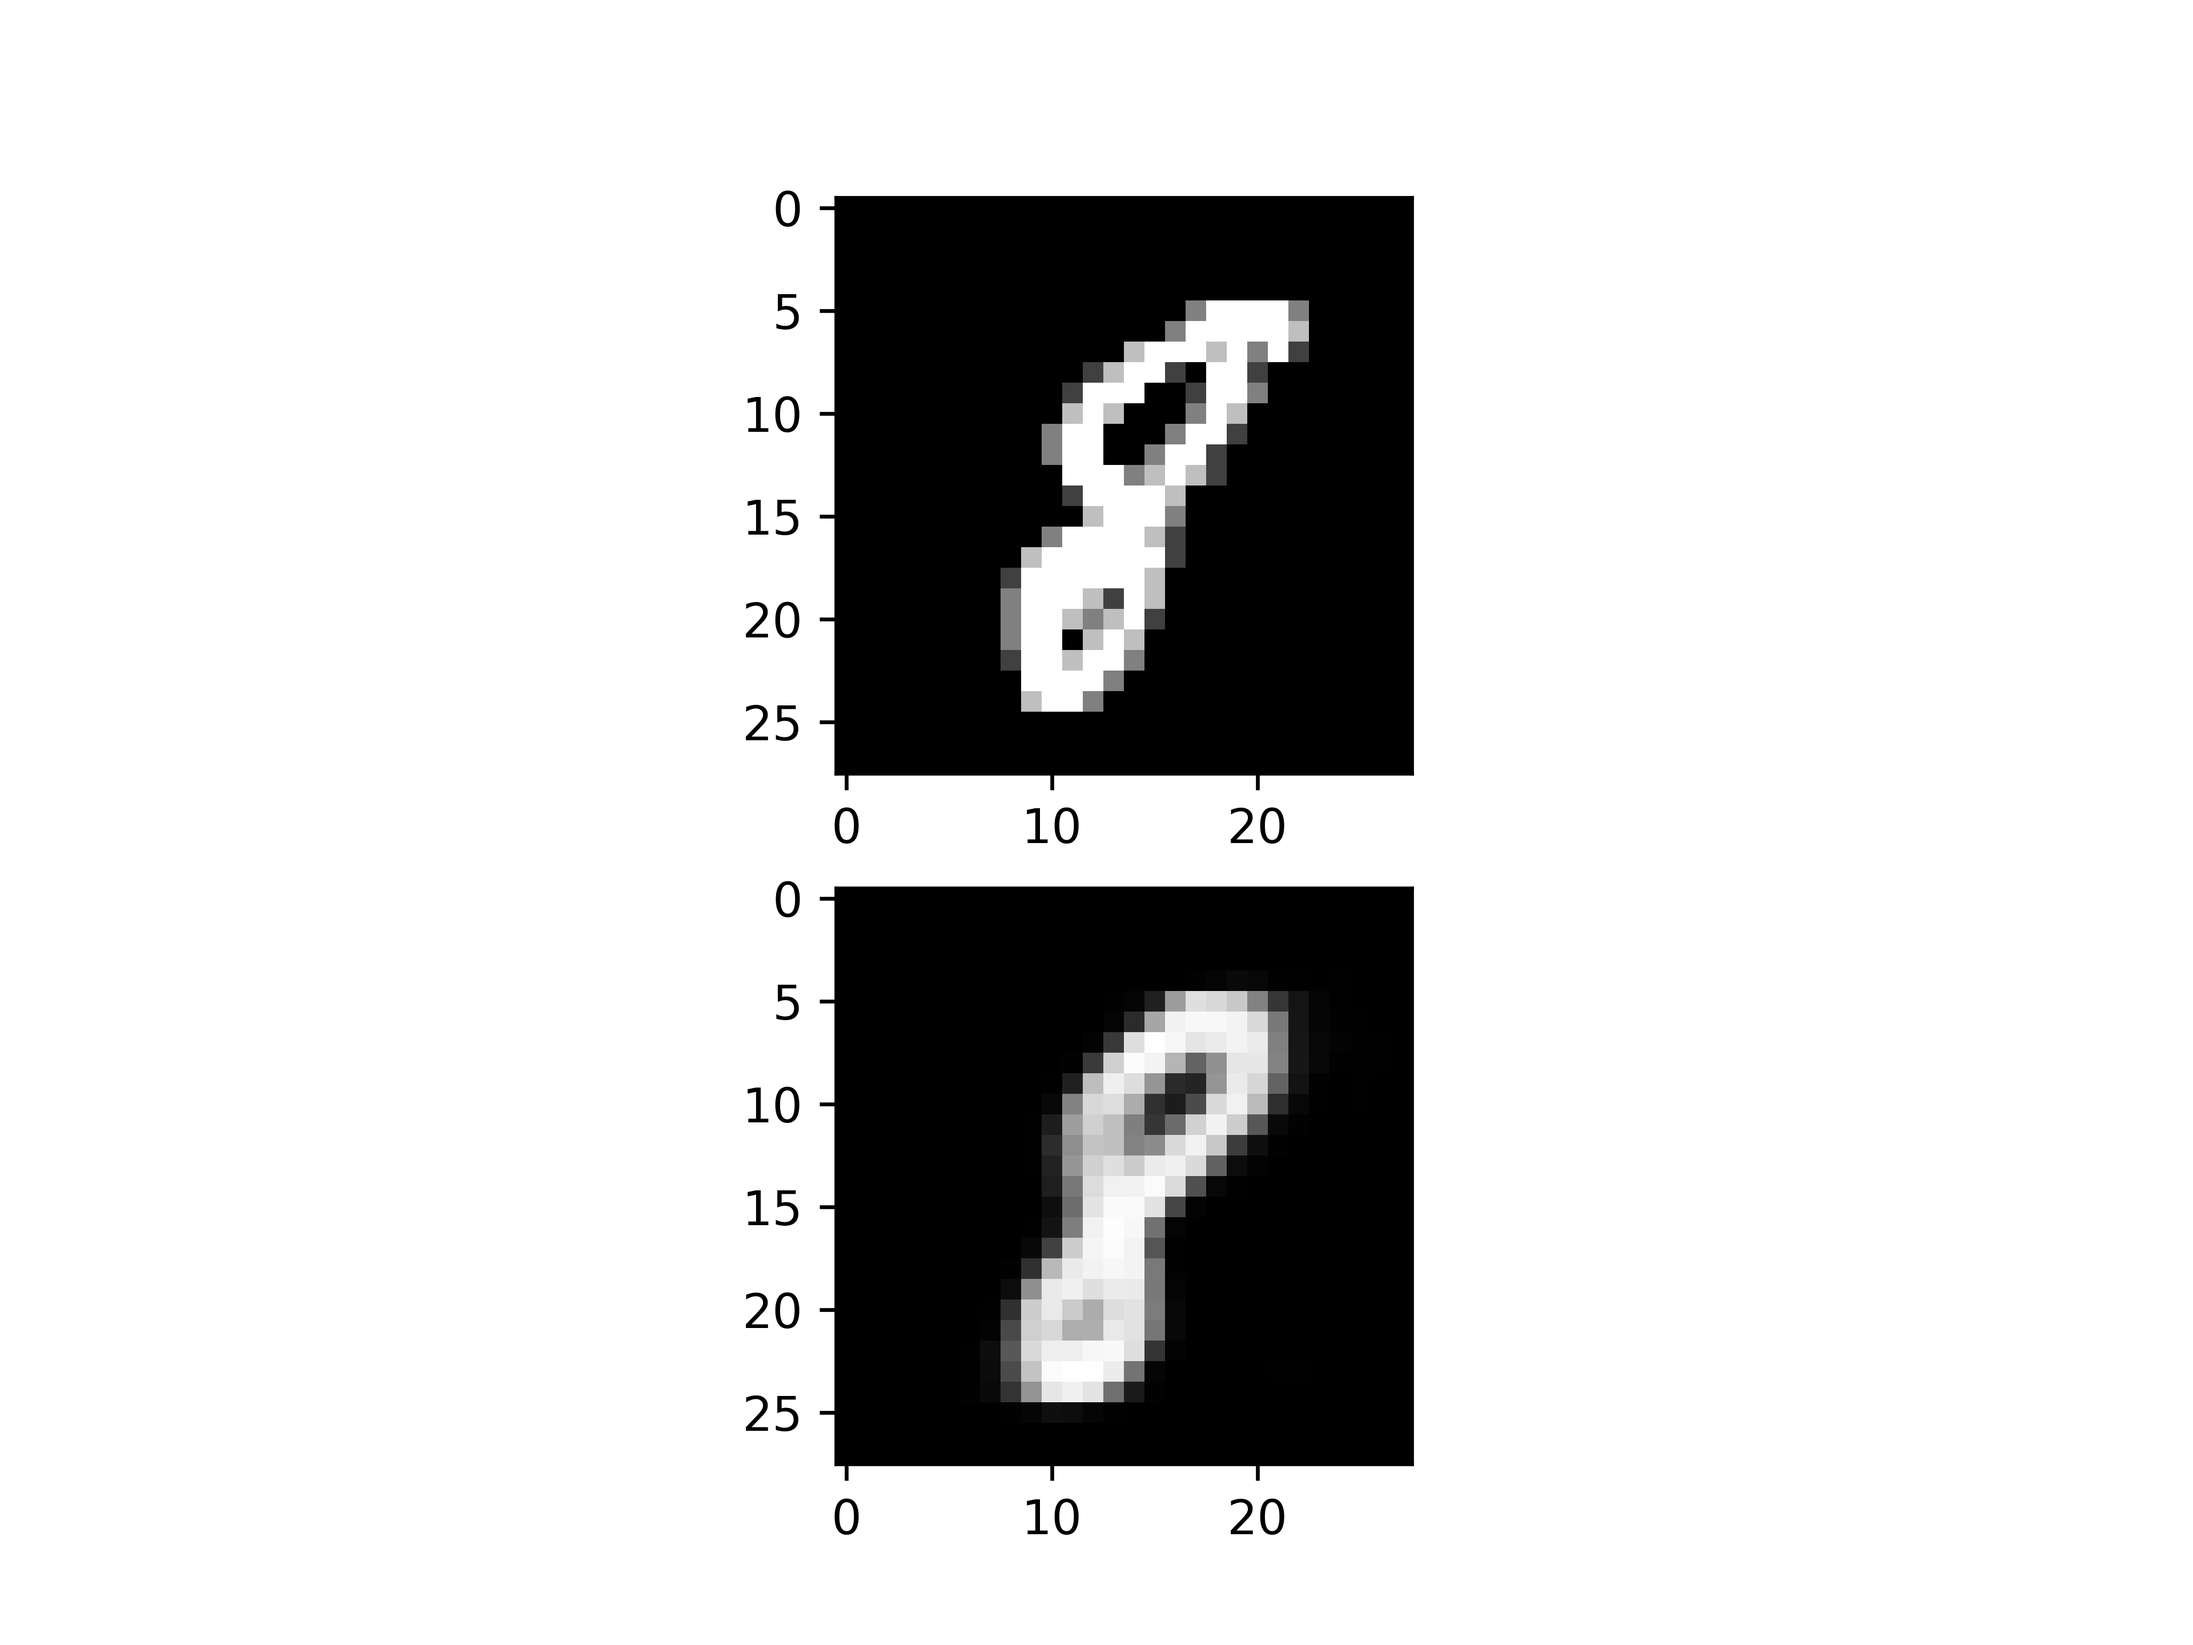
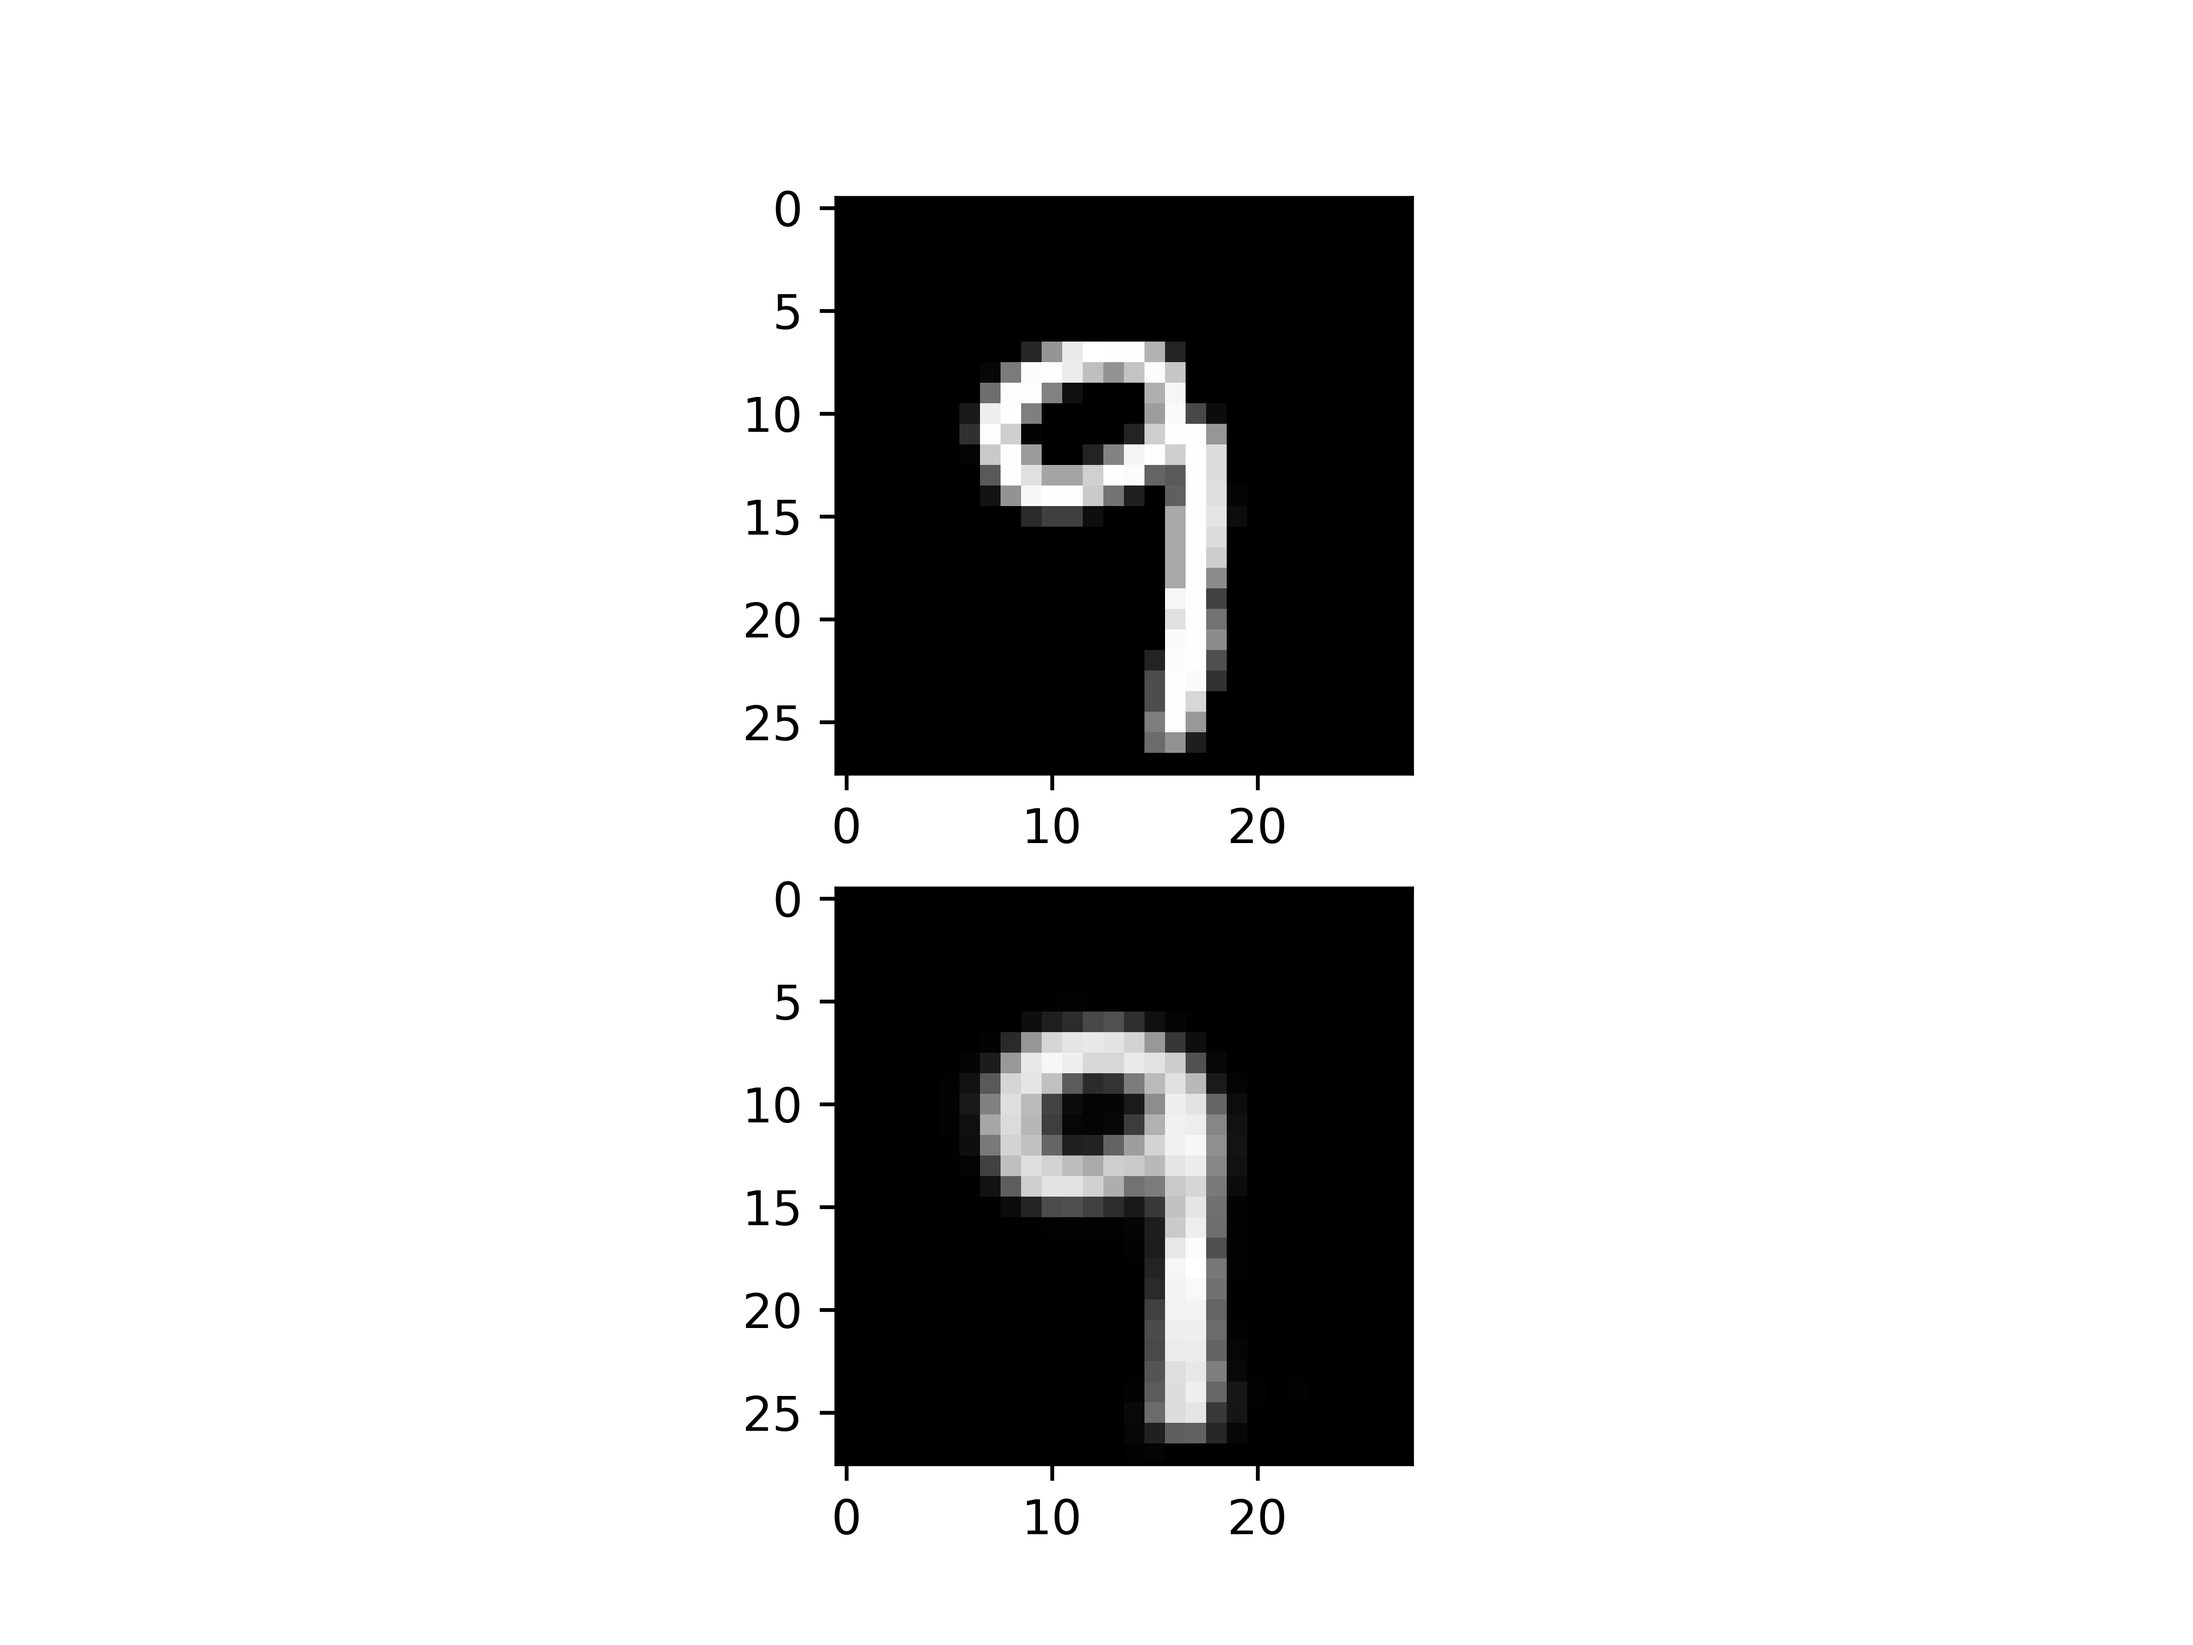
added denoising autoencoder

Changed region(s): [[0.4375, 0.5938, 0.5938, 0.875], [0.4375, 0.1562, 0.5938, 0.4688]]

diff --git a/code/autoencoders/denoising_autoencoder.py b/code/autoencoders/denoising_autoencoder.py
@@ -1,0 +1,93 @@
+"""
+Pytorch implementation of the Autoencoder
+For denoising the images
+"""
+import sys
+import torch
+
+sys.path.append("../")
+device = torch.device("cuda") if torch.cuda.is_available() else torch.device("cpu")
+
+import matplotlib.pyplot as plt
+from torch import nn
+from dataloader import load_mnist
+from basic_autoencoder import Encoder, Decoder, save_checkpoint
+
+
+def add_noise(inputs, noise_factor=0.3):
+     noisy = inputs + torch.randn_like(inputs) * noise_factor
+     noisy = torch.clip(noisy, 0., 1.)
+
+     return noisy
+
+
+if __name__ == "__main__":
+
+    print(f"Using {device} as the accelerator")
+    try:
+        # try loading checkpoint
+        checkpoint = torch.load('../models/denoising_autoencoder.pth.tar')
+        print("Found Checkpoint :)")
+        encoder = checkpoint["encoder"]
+        decoder = checkpoint["decoder"]
+        encoder.to(device)
+        decoder.to(device)
+
+    except:
+        # train the model from scratch
+        print("Couldn't find checkpoint :(")
+
+        encoder = Encoder()
+        decoder = Decoder()
+        encoder.to(device)
+        decoder.to(device)
+        criterion = nn.MSELoss().to(device)
+        encoder_optimizer = torch.optim.Adam(encoder.parameters(), lr=1e-3, weight_decay=1e-5)
+        decoder_optimizer = torch.optim.Adam(decoder.parameters(), lr=1e-3, weight_decay=1e-5)
+        
+        train_dataloader, _ = load_mnist()
+
+        for epoch in range(10):
+            for i, (image, _) in enumerate(train_dataloader):
+                image.to(device)
+                noisy_image = add_noise(image)
+                noisy_image.to(device)
+                encoded_image = encoder(noisy_image)
+                decoded_image = decoder(encoded_image)
+                
+                loss = criterion(decoded_image, image)
+                decoder_optimizer.zero_grad()
+                encoder_optimizer.zero_grad()
+                loss.backward()
+
+                decoder_optimizer.step()
+                encoder_optimizer.step()
+
+                if i % 100 == 0 and i != 0:
+                    print(f"Epoch: [{epoch+1}][{i}/{len(train_dataloader)}] Loss: {loss.item(): .4f}")
+
+            save_checkpoint(epoch, encoder, decoder, encoder_optimizer, decoder_optimizer, path='../models/denoising_autoencoder.pth.tar')
+    
+    # do reconstruction
+    _, test_dataloader = load_mnist(batch_size=1)
+    decoded_image    = None
+
+    for i, (image, _) in enumerate(test_dataloader):
+        image.to(device)
+        noisy_image = add_noise(image)
+        noisy_image.to(device)
+        encoded_image = encoder(noisy_image)
+        decoded_image = decoder(encoded_image)
+        break
+    
+    image = image.reshape(28, 28).detach().numpy()
+    noisy_image = noisy_image.reshape(28, 28).detach().numpy()
+    reconstructed_image = decoded_image.reshape(28, 28).detach().numpy()
+
+    plt.gray()
+    fig, axis = plt.subplots(1, 3)
+    axis[0].imshow(image)
+    axis[1].imshow(noisy_image)
+    axis[2].imshow(reconstructed_image)
+    plt.savefig(f"./img/denoising_autoencoder.png", dpi=600)
+    plt.show()

diff --git a/code/autoencoders/basic_autoencoder.py b/code/autoencoders/basic_autoencoder.py
@@ -3,7 +3,6 @@ Pytorch implementation of the Autoencoder
 """
 import sys
 import torch
-from torch.utils.data import dataloader
 
 sys.path.append("../")
 device = torch.device("cuda") if torch.cuda.is_available() else torch.device("cpu")
@@ -12,14 +11,14 @@ import matplotlib.pyplot as plt
 from torch import nn
 from dataloader import load_mnist
 	
-def save_checkpoint(epoch, encoder, decoder, encoder_optimizer, decoder_optimizer):
+def save_checkpoint(epoch, encoder, decoder, encoder_optimizer, decoder_optimizer, path='../models/checkpoint_enc_dec.pth.tar'):
     state = {'epoch': epoch,
              'encoder': encoder,
              'decoder': decoder,
              'encoder_optimizer': encoder_optimizer,
              'decoder_optimizer': decoder_optimizer}
 
-    filename = '../models/checkpoint_enc_dec.pth.tar'
+    filename = path
     torch.save(state, filename)
 
 
@@ -70,12 +69,15 @@ class Decoder(nn.Module):
 
 if __name__ == "__main__":
 
+    print(f"Using {device} as the accelerator")
     try:
         # try loading checkpoint
         checkpoint = torch.load('../models/checkpoint_enc_dec.pth.tar')
         print("Found Checkpoint :)")
         encoder = checkpoint["encoder"]
         decoder = checkpoint["decoder"]
+        encoder.to(device)
+        decoder.to(device)
 
     except:
         # train the model from scratch
@@ -83,7 +85,9 @@ if __name__ == "__main__":
 
         encoder = Encoder()
         decoder = Decoder()
-        criterion = nn.MSELoss()
+        encoder.to(device)
+        decoder.to(device)
+        criterion = nn.MSELoss().to(device)
         encoder_optimizer = torch.optim.Adam(encoder.parameters(), lr=1e-3, weight_decay=1e-5)
         decoder_optimizer = torch.optim.Adam(decoder.parameters(), lr=1e-3, weight_decay=1e-5)
         
@@ -91,6 +95,7 @@ if __name__ == "__main__":
 
         for epoch in range(10):
             for i, (image, _) in enumerate(train_dataloader):
+                image.to(device)
                 encoded_image = encoder(image)
                 decoded_image = decoder(encoded_image)
                 
@@ -104,15 +109,15 @@ if __name__ == "__main__":
 
                 if i % 100 == 0 and i != 0:
                     print(f"Epoch: [{epoch+1}][{i}/{len(train_dataloader)}] Loss: {loss.item(): .4f}")
-                
 
             save_checkpoint(epoch, encoder, decoder, encoder_optimizer, decoder_optimizer)
     
     # do reconstruction
-    train_dataloader, _ = load_mnist(batch_size=1)
+    _, test_dataloader = load_mnist(batch_size=1)
     decoded_image    = None
 
-    for i, (image, _) in enumerate(train_dataloader):
+    for i, (image, _) in enumerate(test_dataloader):
+        image.to(device)
         encoded_image = encoder(image)
         decoded_image = decoder(encoded_image)
         break
